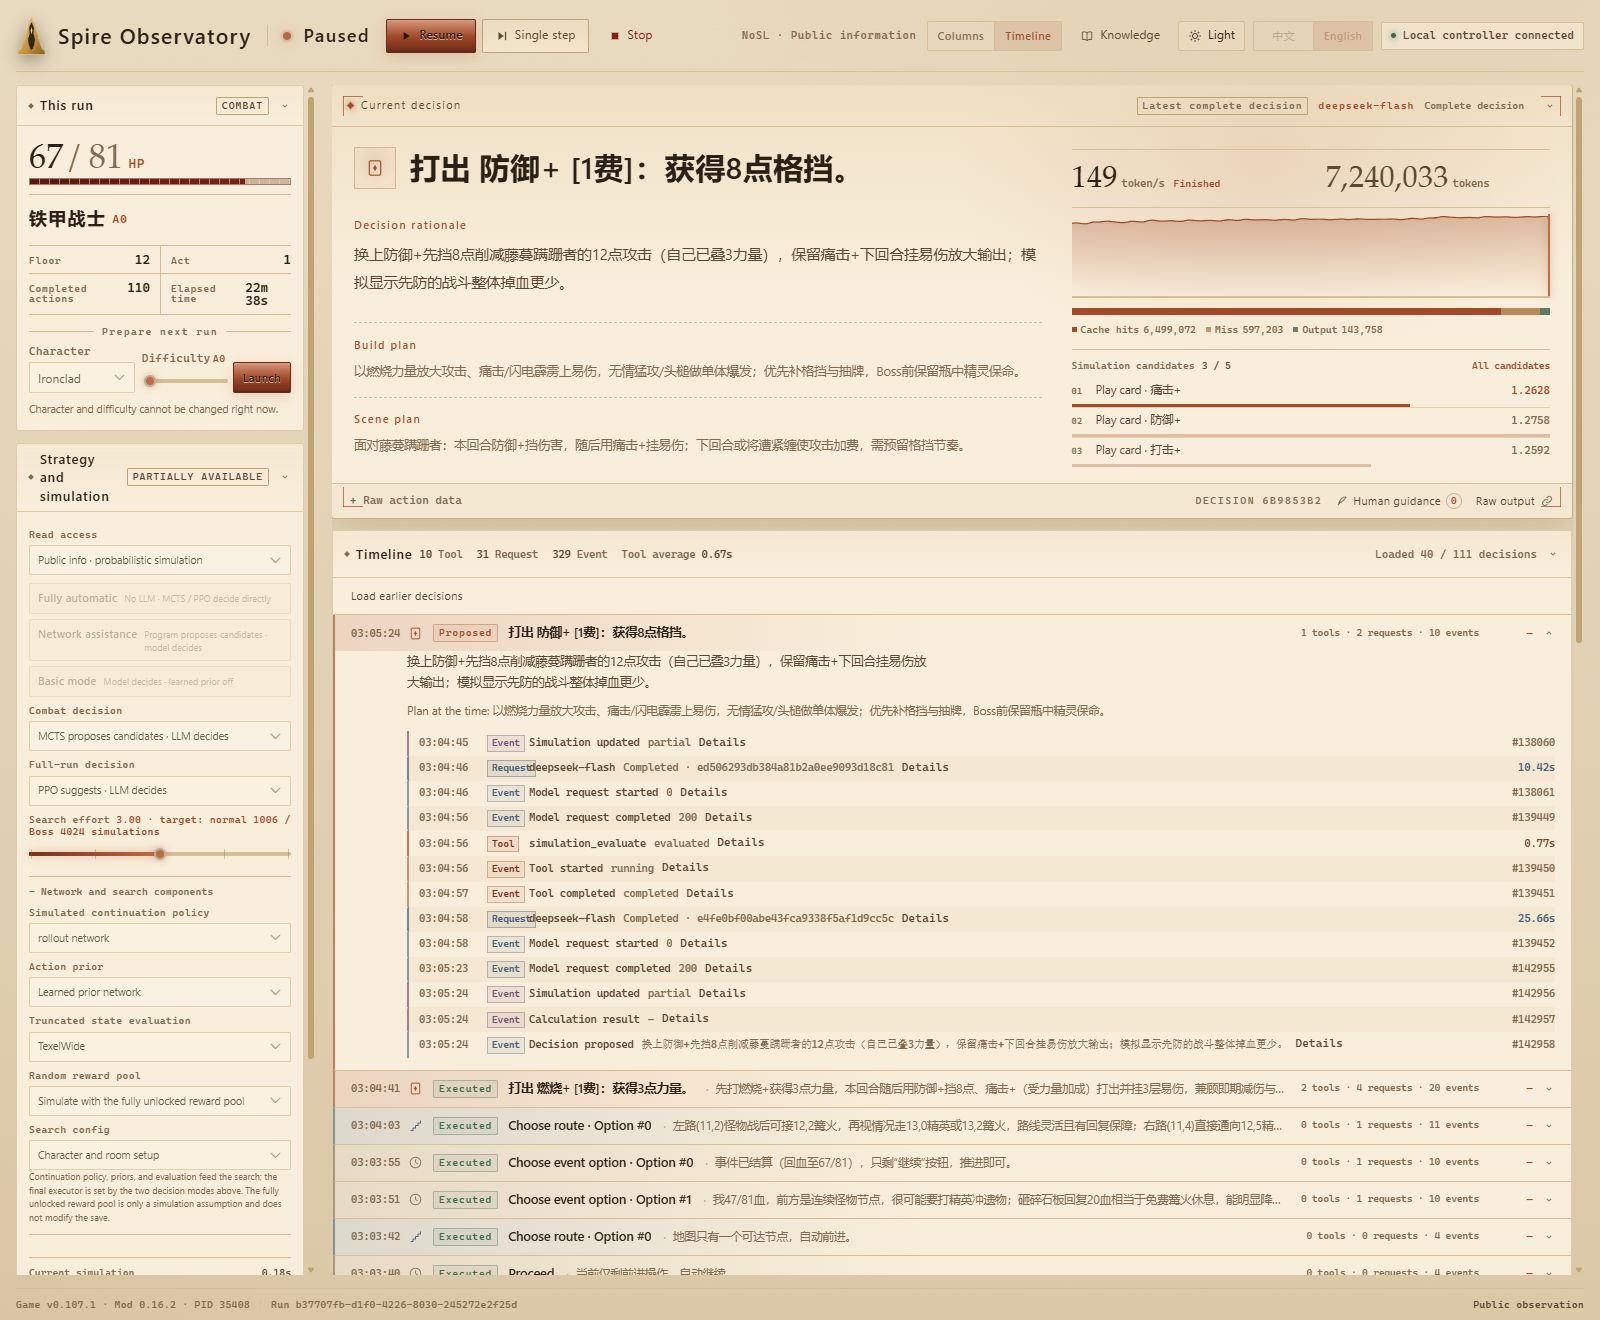
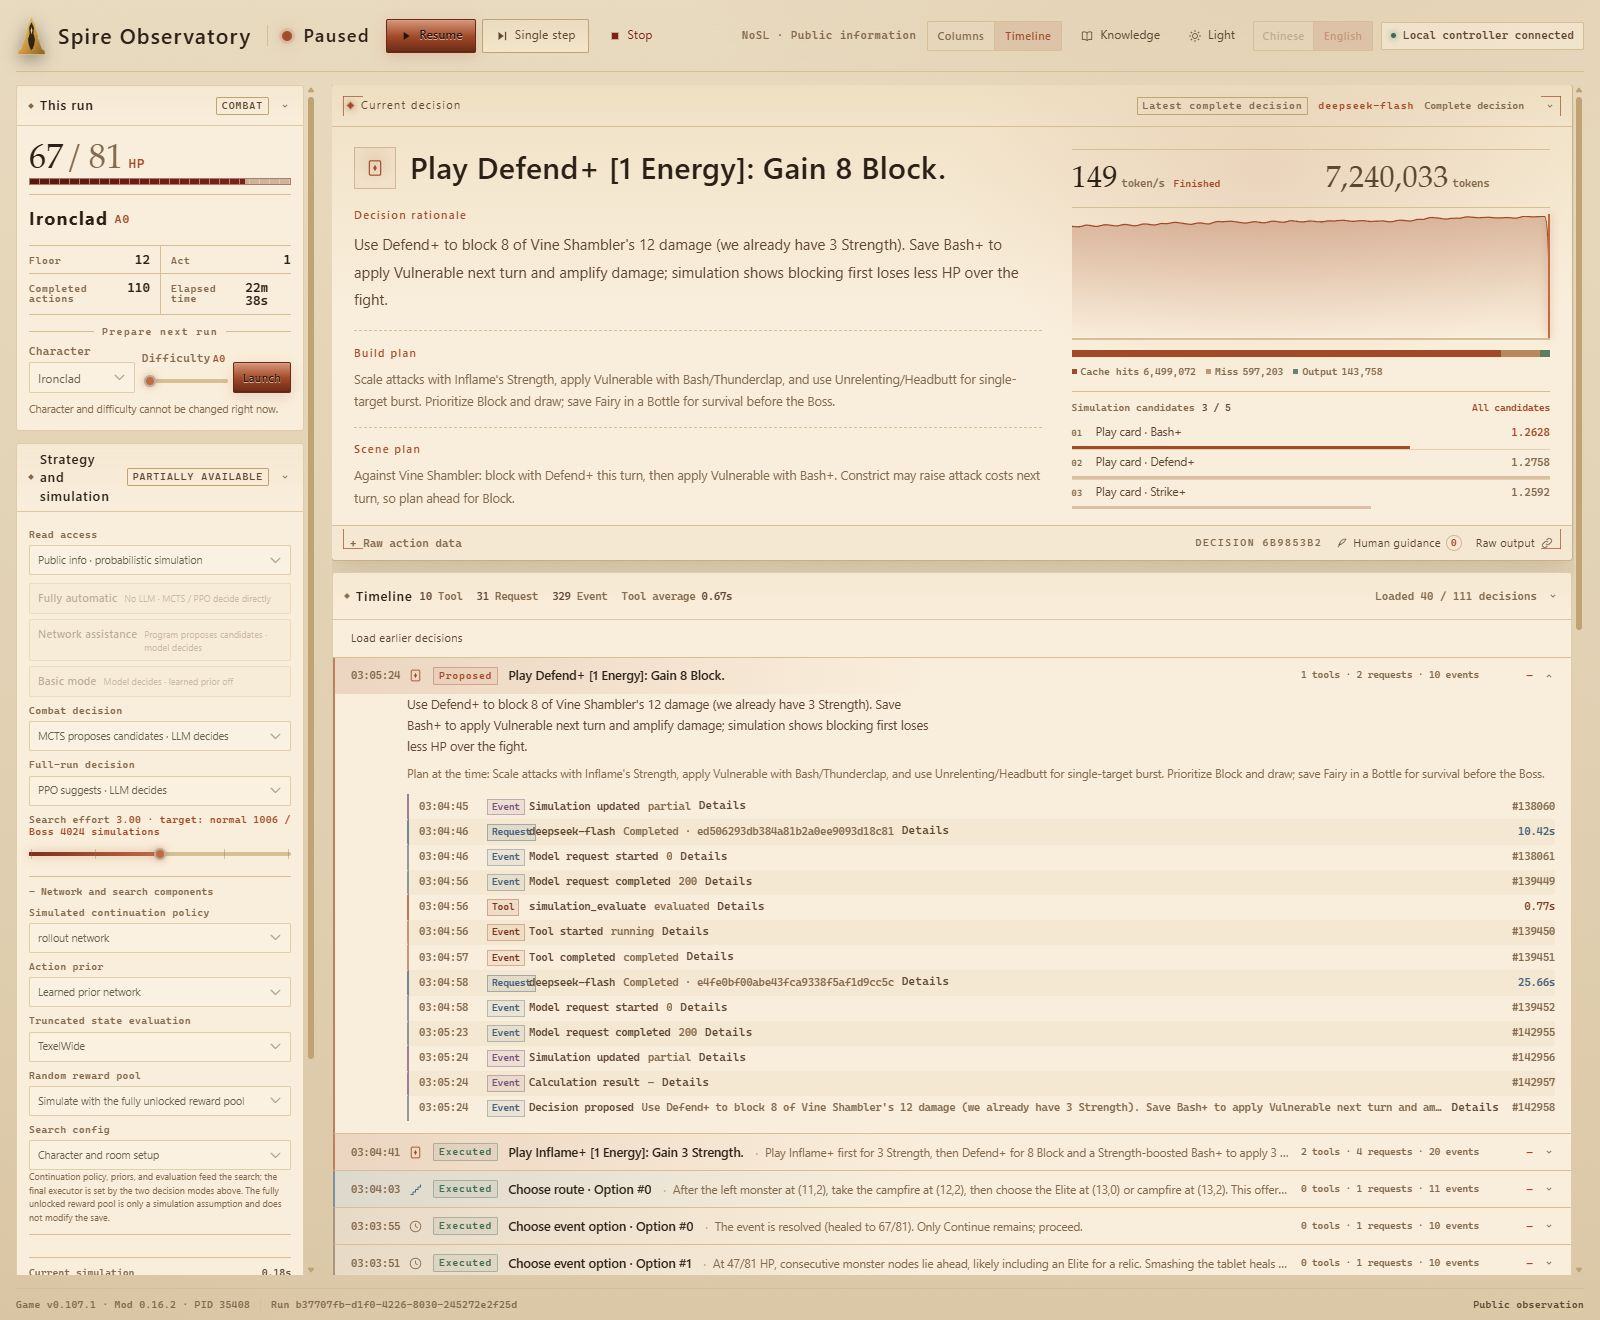
docs: translate dashboard preview content into English

Changed region(s): [[0.1875, 0.0932, 1.0, 0.9629], [0.6875, 0.1553, 0.75, 0.1864], [0.0, 0.1553, 0.0625, 0.1864]]

diff --git a/README.md b/README.md
@@ -18,7 +18,7 @@ An AI agent for *Slay the Spire 2* on Windows, using a game mod's structured obs
 <p align="center">
   <a href="docs/images/dashboard-en-light.jpg"><img src="docs/images/dashboard-en-light.jpg" alt="Spire Observatory English dashboard showing a recorded session replay" width="1200"></a>
   <br>
-  <sub>Spire Observatory · recorded session replay; historical content remains in its original language.</sub>
+  <sub>Spire Observatory · recorded session replay, with display text translated into English for this preview.</sub>
 </p>
 
 > [!NOTE]
